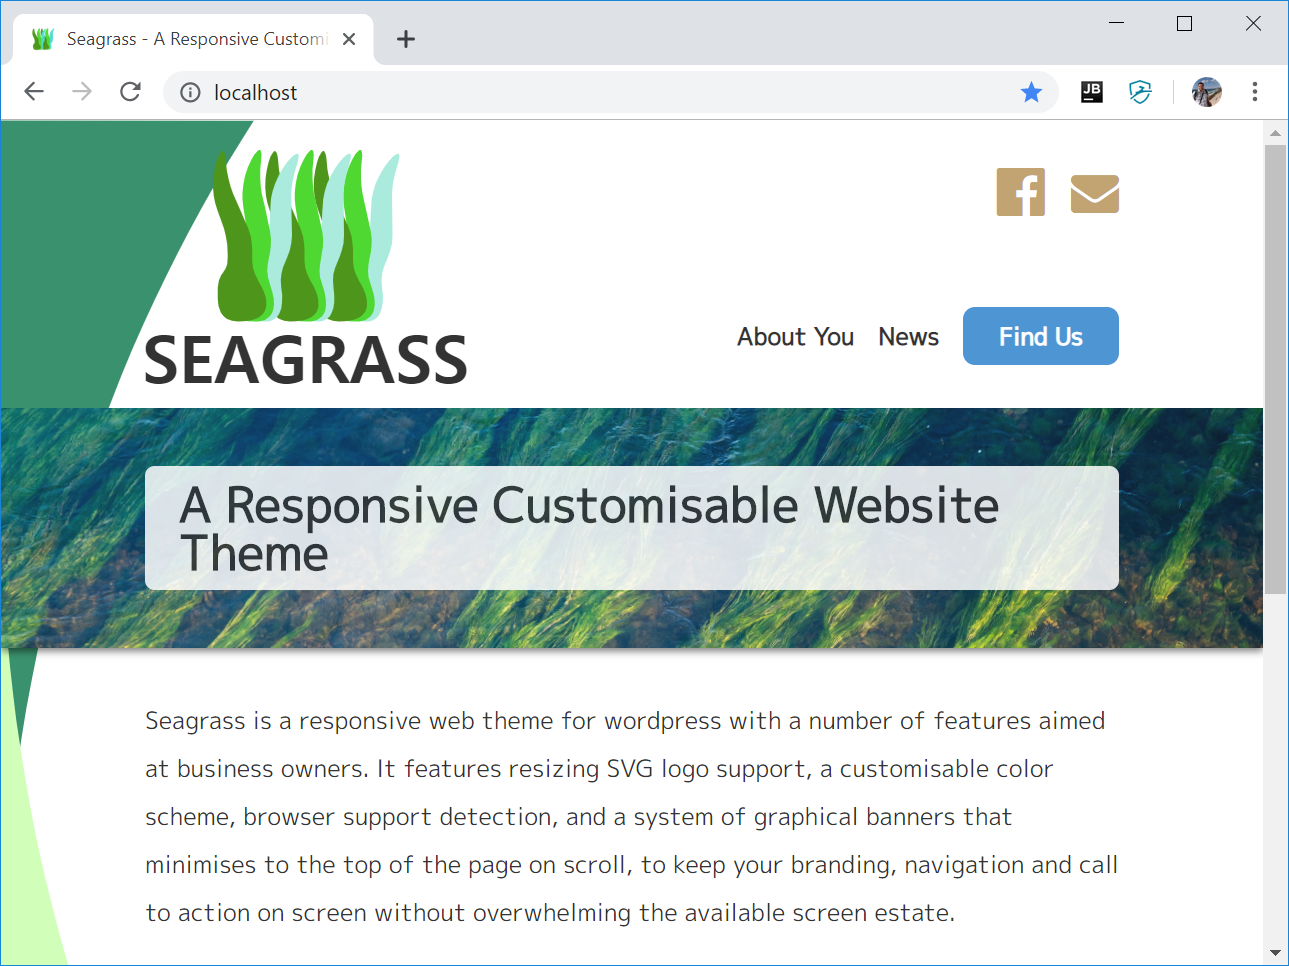
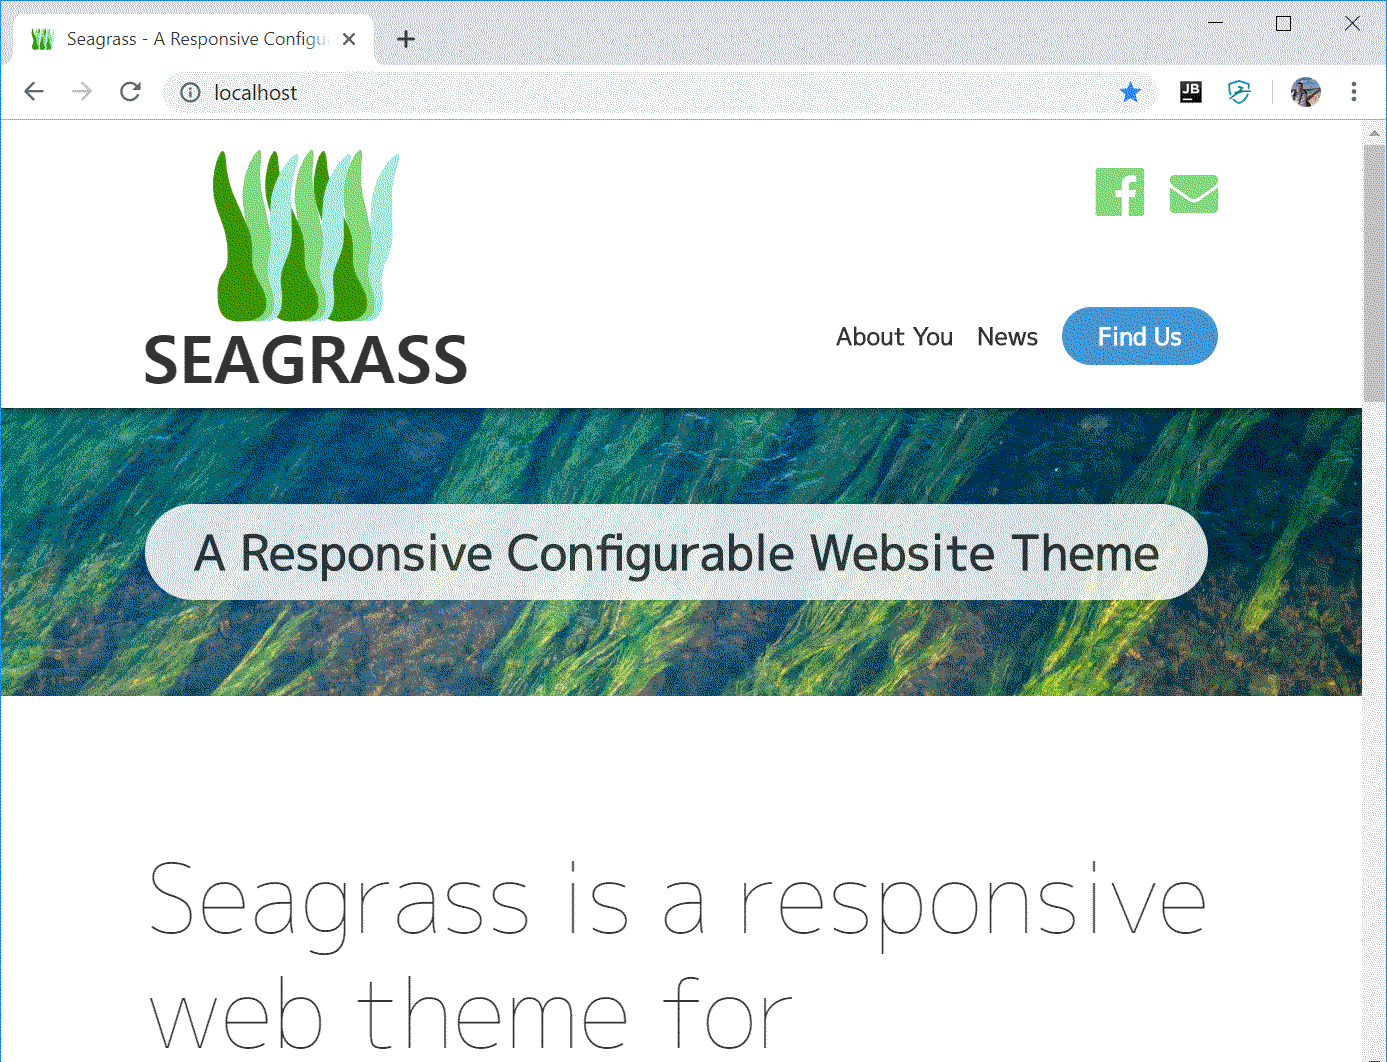
Refactored main page to fix styling affecting admin view, updated screenshots, defaults

diff --git a/style.css b/style.css
@@ -1,7 +1,7 @@
 /*
 Theme Name: Seagrass
 Author: Richard Woods
-Description: Seagrass is a responsive web theme for wordpress by Sealion Software. It features resizing SVG logo support, a customisable color scheme, browser support detection, and a system of graphical banners that minimises to the top of the page on scroll, to keep your branding, navigation and call to action on screen without overwhelming the available screen estate. Your home page can also feature excerpts from content pages with a custom tag to draw users into the sitemap once they’ve landed, and Google Analytics Integration is built in so that you can trace how your users are consuming yor content.
+Description: Seagrass by Sealion Software is a responsive web theme for wordpress with features for business owners
 Version: 1.0
 Tags: Sealion Software, Responsive, Scalable
 */
@@ -19,10 +19,6 @@ body {
     color: var(--strong);
     min-height: 100vh;
     line-height: 2em;
-}
-
-body > * {
-    padding: 0 var(--gutter);
 }
 
 a {
@@ -95,13 +91,17 @@ input[type=button] {
 
 /* General Styles */
 
-ul.menu {
+.menu {
     padding: 0;
 }
 
-ul.menu li {
+.menu li {
     display: inline;
     white-space: nowrap;
+}
+
+.content > * {
+    padding: 0 var(--gutter);
 }
 
 /* Header */
@@ -262,15 +262,15 @@ figure img {
     margin: 1em 2em;
 }
 
-.lifted {
+.article {
     padding: 2rem;
     background-color: white; opacity:0.85;
     border-radius: 2em;
-    margin: 3rem 0;
+    margin: 3rem var(--gutter);
     box-shadow: rgba(0,0,0, 0.5) 0 2px 5px;
 }
 
-.lifted p:last-child {
+.article p:last-child {
     margin-bottom: 0;
 }
 
@@ -385,6 +385,11 @@ figure img {
     .description {
         font-size: 2em;
     }
+
+    body > h2:before {
+        height: 0.2em;
+    }
+
 
 }
 

diff --git a/page.php b/page.php
@@ -1,52 +1,44 @@
 <!DOCTYPE html>
+<?php
+    $description=get_post_custom_values('description');
+    if (is_front_page()) :
+        $featuredPages = new WP_Query(array(
+            'post_type' => 'page',
+            'meta_key' => 'feature-on-home',
+            'meta_value' => 'true'
+        ));
+    endif;
+?>
 <html lang="en">
     <?php get_header('head');?>
     <body>
-        <?php
-            get_header();
-            $description=get_post_custom_values('description');
-            if ($description != null) :
-        ?>
-            <style>
-                .description::before {
-                    background-image: url('<?php echo get_site_icon_url($size = 512) ?>')
-                }
-            </style>
-            <div class="description">
-                <?php echo $description[0] ?>
-            </div>
-
-
-        <?php
-
-            endif;
-            if (have_posts()) : while (have_posts()) : the_post();
-                the_content();
-            endwhile; endif;
-            if (is_front_page()) :
-                $featuredPages = new WP_Query(array(
-                    'post_type' => 'page',
-                    'meta_key' => 'feature-on-home',
-                    'meta_value' => 'true'
-                ));
-        ?>
-            <div class="link-cards">
-            <?php
-                while ($featuredPages->have_posts()) : $featuredPages->the_post()
-            ?>
-                <div>
-                    <h2><a href="<?php the_permalink();?>"><?php the_title();?></a></h2>
-                    <?php the_content('');?>
+        <div class="content">
+            <?php get_header(); ?>
+            <?php if ($description != null) : ?>
+                <style>
+                    .description::before {
+                        background-image: url('<?php echo get_site_icon_url() ?>')
+                    }
+                </style>
+                <div class="description">
+                    <?php echo $description[0] ?>
                 </div>
-            <?php
-                endwhile;
-                wp_reset_postdata();
-            ?>
-            </div>
-        <?php
-            endif;
-            get_footer();
-        ?>
+            <?php endif ?>
+            <?php if (have_posts()) : while (have_posts()) : ?>
+                <?php the_post(); the_content(); ?>
+            <?php endwhile; endif; ?>
+            <?php if ($featuredPages != null ) : ?>
+                <div class="link-cards">
+                    <?php while ($featuredPages->have_posts()) : $featuredPages->the_post() ?>
+                        <div>
+                            <h2><a href="<?php the_permalink();?>"><?php the_title();?></a></h2>
+                            <?php the_content('');?>
+                        </div>
+                    <?php endwhile; wp_reset_postdata();?>
+                </div>
+            <?php endif;?>
+            <?php get_footer(); ?>
+        </div>
+        <?php wp_footer(); ?>
     </body>
-    <?php wp_footer(); ?>
 </html>

diff --git a/home.php b/home.php
@@ -2,11 +2,10 @@
 <html lang="en">
     <?php get_header('head');?>
     <body>
-        <?php get_header();?>
-        <div class="main">
-            <div class="content">
-                <?php if (have_posts()) : while (have_posts()) : the_post();?>
-                <div class="lifted">
+        <div class="content">
+            <?php get_header();?>
+            <?php if (have_posts()) : while (have_posts()) : the_post();?>
+                <div class="article">
                     <h2><?php the_title();?></h2>
                     <h3 class="date"><?php the_date();?></h3>
                     <?php the_content(); ?>
@@ -17,10 +16,9 @@
                         </a>
                     </div>
                 </div>
-                <?php endwhile; endif; ?>
-            </div>
+            <?php endwhile; endif; ?>
+            <?php get_footer(); ?>
         </div>
-        <?php get_footer(); ?>
+        <?php wp_footer(); ?>
     </body>
-    <?php wp_footer(); ?>
 </html>

diff --git a/index.php b/index.php
@@ -1,18 +1,18 @@
 <!DOCTYPE html>
 <html lang="en">
-<?php get_header('head');?>
-<body>
-<div class="landing">
-    <div class="logo-bound">
-        <?php echo get_custom_logo( $blog_id = 0 ) ?>
-    </div>
-    <div>
-        <?php if (have_posts()) : while (have_posts()) : the_post();?>
-            <h2><?php the_title();?></h2>
-            <?php the_content(); ?>
-        <?php endwhile; endif; ?>
-    </div>
-</div>
-</body>
-<?php wp_footer(); ?>
+    <?php get_header('head');?>
+    <body>
+        <div class="landing">
+            <div class="logo-bound">
+                <?php echo get_custom_logo( $blog_id = 0 ) ?>
+            </div>
+            <div>
+                <?php if (have_posts()) : while (have_posts()) : the_post();?>
+                    <h2><?php the_title();?></h2>
+                    <?php the_content(); ?>
+                <?php endwhile; endif; ?>
+            </div>
+        </div>
+        <?php wp_footer(); ?>
+    </body>
 </html>

diff --git a/functions.php b/functions.php
@@ -37,11 +37,15 @@ add_theme_support( 'starter-content', array(
     'attachments' => array(
         'image-seagrass-meadow' => array(
             'post_title' => _x( 'Seagrass Meadow', 'Defaults', 'seagrass' ),
-            'file'       => 'sea-algae.jpg'
+            'file'       => 'sea-algae.png'
         ),
         'image-seagrass-logo' => array(
             'post_title' => _x( 'Seagrass Logo', 'Defaults', 'seagrass' ),
             'file'       => 'seagrass-logo.svg'
+        ),
+        'image-seagrass-icon' => array(
+            'post_title' => _x( 'Seagrass Icon', 'Defaults', 'seagrass' ),
+            'file'       => 'seagrass-icon.png'
         )
     ),
 
